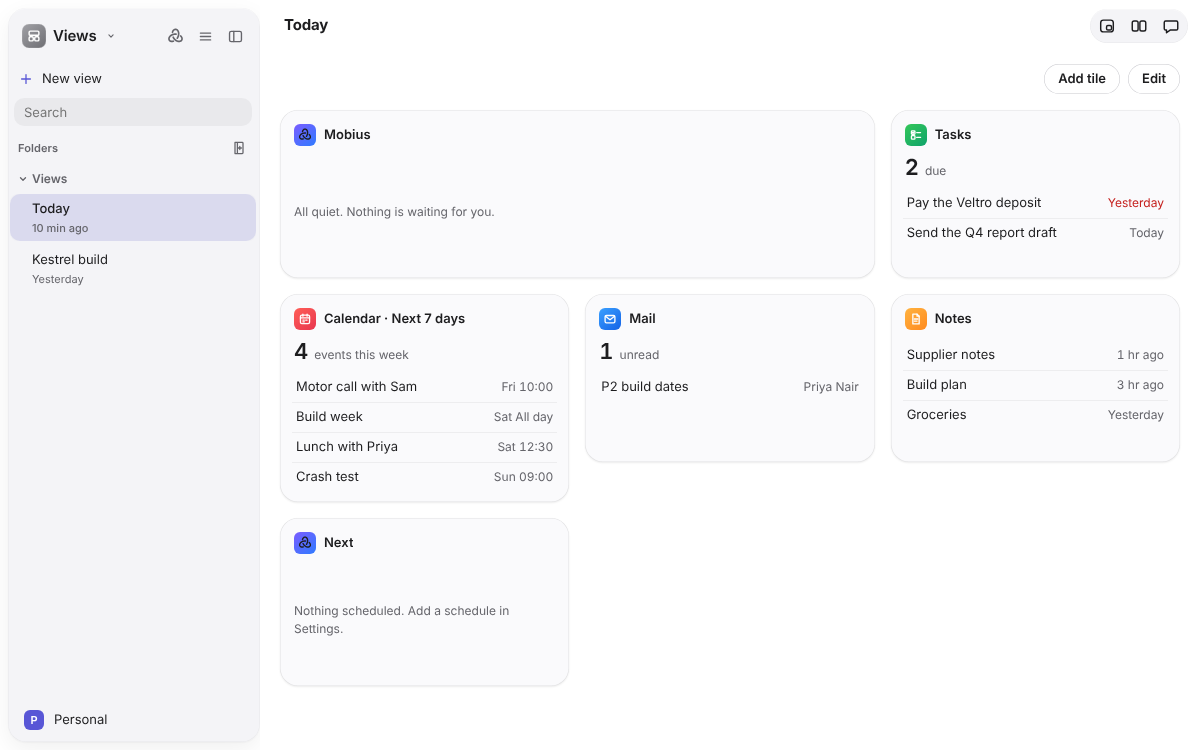
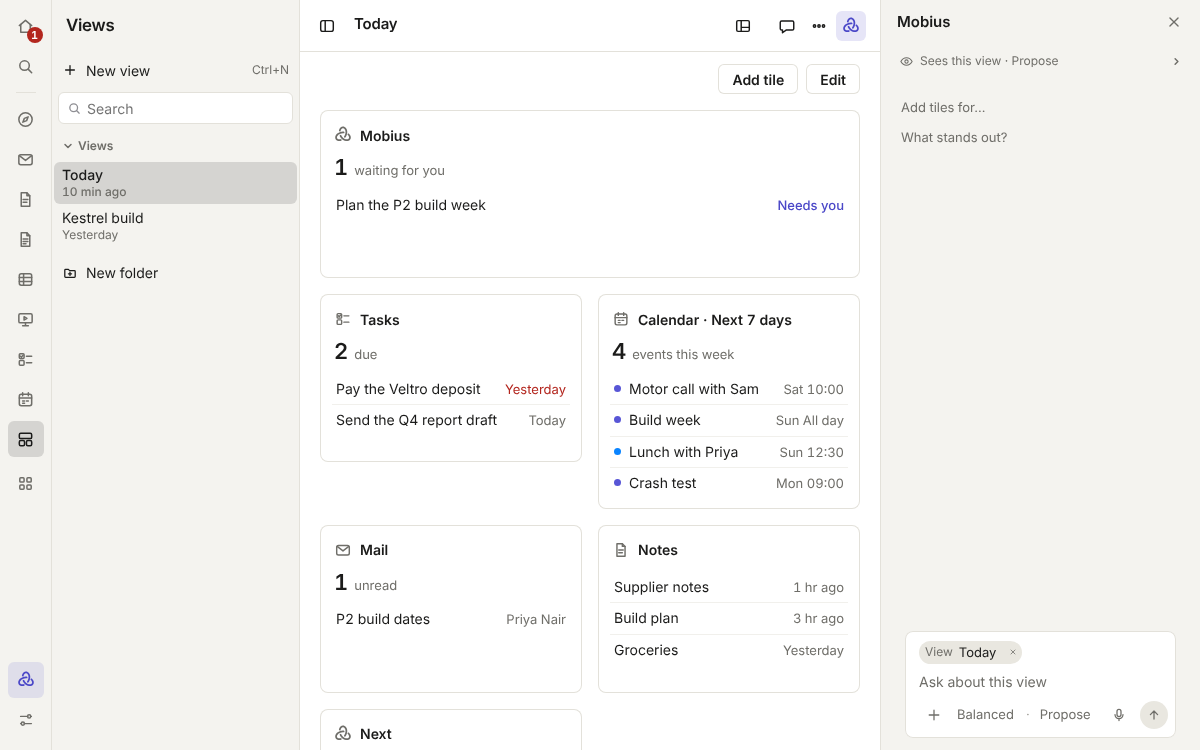
Views: Instrument round
- Flat tiles with a hairline edge and 8px corners; line icons, no hand-set colours.
- Indigo only for Mobius ("Needs you"); red only for overdue tasks and removing.
- An event's row carries a dot in its calendar's colour, as Calendar draws it.
- Tabular figures for counts, times and "N more".
- Empty states are one line and the New action; while the views are read,
  grey placeholder bars stand in for the tiles (useNotes gains `loaded`).
- Tiles take focus: Enter opens, Delete removes, Shift+F10 opens the menu,
  Alt+←/→ moves. Menu items show their keys and have no icons (none have);
  icon buttons have tooltips with their keys.
- The shared UndoToast replaces Views' own undo pill.

Claude-Session: https://claude.ai/code/session_01VRGwoAJhimgpqSaqF9KiYG

diff --git a/apps/desktop/src/Views.tsx b/apps/desktop/src/Views.tsx
@@ -1,5 +1,6 @@
 import { useEffect, useMemo, useRef, useState, type ReactNode } from 'react';
 import { ContextMenu, type ContextMenuItem } from './ContextMenu';
+import { UndoToast } from './ui';
 import { EmptyState } from './EmptyState';
 import { NotesSidebar, newItemIn, type SidebarWords } from './NotesSidebar';
 import { ReviewActions, WhyThis } from './ReviewBar';
@@ -32,8 +33,24 @@ export function viewReviewText(changed: number, removed: number): string {
 }
 
 const AppIcon = ({ app }: { app: string }) => (
-  <svg viewBox="0 0 20 20" aria-hidden="true" className="view-tile-icon" style={{ background: `var(--app-${app})` }}>{APP_ICONS[app]}</svg>
+  <svg viewBox="0 0 20 20" aria-hidden="true" className="view-tile-icon">{APP_ICONS[app]}</svg>
 );
+
+/** Grey bars the shape of the tiles that are coming, while the views are read (Instrument: no spinners in content). */
+function Placeholder() {
+  return (
+    <ul className="views-grid" role="list" aria-label="Loading" aria-busy="true">
+      {['wide', 'small', 'small', 'small'].map((size, i) => (
+        <li key={i} className="view-tile" data-size={size} data-placeholder>
+          <span className="view-bar" data-w="40" />
+          <span className="view-bar" data-w="20" data-tall />
+          <span className="view-bar" data-w="90" />
+          <span className="view-bar" data-w="70" />
+        </li>
+      ))}
+    </ul>
+  );
+}
 
 /** Mobius's schedules, for the Next tile, kept current. */
 function useSchedules(): ViewSources['schedules'] {
@@ -89,10 +106,11 @@ export function ViewPage({ views, apps, review, onOpen, now: fixedNow }: Props) 
   const gone = useMemo(() => (view && beforeView !== undefined ? removedTiles(beforeView, view) : []), [view, beforeView]);
 
   if (!views.page) {
+    if (!views.loaded) return <section className="views-page" aria-label="Views"><div className="views-scroll"><Placeholder /></div></section>;
     const none = views.notebooks.every((nb) => nb.pages.length === 0);
     return (
       <section className="views-page" aria-label="Views">
-        <EmptyState app="views" title={none ? 'No views yet' : 'No view open'} line={none ? 'A view is a dashboard of live tiles from your apps: tasks, calendar, mail, notes and what Mobius is doing.' : 'Choose a view on the left, or make a new one.'} action={{ label: 'New view', run: () => newView(views) }} />
+        <EmptyState app="views" title={none ? 'No views yet' : 'Choose a view on the left'} action={{ label: 'New view', run: () => newView(views) }} />
       </section>
     );
   }
@@ -119,7 +137,7 @@ export function ViewPage({ views, apps, review, onOpen, now: fixedNow }: Props) 
   const menuItems = (tile: Tile): ContextMenuItem[] => {
     const at = view.tiles.findIndex((t) => t.id === tile.id);
     const items: ContextMenuItem[] = [
-      { action: 'open', label: `Open in ${tileKind(tile.kind).name === 'Next' ? 'Settings' : tileKind(tile.kind).name}`, run: () => onOpen(tileContent(tile, sources, now).target) },
+      { label: `Open in ${tileKind(tile.kind).name === 'Next' ? 'Settings' : tileKind(tile.kind).name}`, keys: 'Enter', run: () => onOpen(tileContent(tile, sources, now).target) },
       { label: tile.size === 'wide' ? 'Make small' : 'Make wide', run: () => save(changeTile(view, tile.id, { size: tile.size === 'wide' ? 'small' : 'wide' })), separated: true },
     ];
     if (tile.kind === 'tasks') for (const s of TASKS_SHOW) items.push({ label: `Show ${s.name}`, disabled: (tile.show ?? 'today') === s.id, run: () => save(changeTile(view, tile.id, { show: s.id })) });
@@ -127,7 +145,7 @@ export function ViewPage({ views, apps, review, onOpen, now: fixedNow }: Props) 
     items.push(
       { label: 'Move earlier', keys: 'Alt+←', disabled: at <= 0, run: () => move(tile, -1), separated: true },
       { label: 'Move later', keys: 'Alt+→', disabled: at >= view.tiles.length - 1, run: () => move(tile, 1) },
-      { action: 'delete', label: 'Remove tile', danger: true, run: () => remove(tile) },
+      { label: 'Remove tile', keys: 'Delete', danger: true, run: () => remove(tile) },
     );
     return items;
   };
@@ -155,7 +173,7 @@ export function ViewPage({ views, apps, review, onOpen, now: fixedNow }: Props) 
       <div className="views-scroll">
       {view.tiles.length === 0 ? (
         <div className="views-empty">
-          <EmptyState app="views" title="This view is empty" line="Add tiles from your apps, or start with the usual ones." action={{ label: 'Add the usual tiles', run: () => save(starterView()) }} />
+          <EmptyState app="views" title="This view is empty" action={{ label: 'Add the usual tiles', run: () => save(starterView()) }} />
         </div>
       ) : (
         <ul className="views-grid" role="list" aria-label="Tiles">
@@ -177,23 +195,27 @@ export function ViewPage({ views, apps, review, onOpen, now: fixedNow }: Props) 
                 onDragOver={(e) => { if (dragging && dragging !== tile.id) { e.preventDefault(); e.dataTransfer.dropEffect = 'move'; } }}
                 onDrop={(e) => { e.preventDefault(); if (dragging && dragging !== tile.id) save(moveTile(view, dragging, index)); setDragging(null); }}
                 onContextMenu={(e) => { e.preventDefault(); setMenu({ x: e.clientX, y: e.clientY, tile }); }}
+                tabIndex={0}
                 onKeyDown={(e) => {
-                  if (!e.altKey || (e.key !== 'ArrowLeft' && e.key !== 'ArrowRight')) return;
-                  e.preventDefault();
-                  move(tile, e.key === 'ArrowLeft' ? -1 : 1);
+                  if (e.altKey && (e.key === 'ArrowLeft' || e.key === 'ArrowRight')) { e.preventDefault(); move(tile, e.key === 'ArrowLeft' ? -1 : 1); return; }
+                  // The rest are the tile's own keys: only when the tile itself has focus, not a row inside it.
+                  if (e.target !== e.currentTarget) return;
+                  if (e.key === 'Enter') { e.preventDefault(); onOpen(content.target); }
+                  else if (e.key === 'Delete' || e.key === 'Backspace') { e.preventDefault(); remove(tile); }
+                  else if (e.key === 'ContextMenu' || (e.shiftKey && e.key === 'F10')) { e.preventDefault(); const r = e.currentTarget.getBoundingClientRect(); setMenu({ x: r.left + 12, y: r.top + 40, tile }); }
                 }}
               >
                 <header className="view-tile-head">
-                  <button type="button" className="view-tile-name" onClick={() => onOpen(content.target)} title={`Open ${tileKind(tile.kind).name === 'Next' ? 'Settings › Schedules' : tileKind(tile.kind).name}`}>
+                  <button type="button" className="view-tile-name" onClick={() => onOpen(content.target)} title={`Open ${tileKind(tile.kind).name === 'Next' ? 'Settings › Schedules' : tileKind(tile.kind).name} (Enter)`}>
                     <AppIcon app={content.app} />
                     <span>{title}</span>
                   </button>
                   {editing ? (
-                    <button type="button" className="view-tile-remove" aria-label={`Remove ${title}`} onClick={() => remove(tile)}>
+                    <button type="button" className="view-tile-remove" aria-label={`Remove ${title}`} title={`Remove ${title} (Delete)`} onClick={() => remove(tile)}>
                       <svg viewBox="0 0 20 20" aria-hidden="true"><path d="M6 10h8" /></svg>
                     </button>
                   ) : (
-                    <button type="button" className="view-tile-more" aria-label={`More for ${title}`} onClick={(e) => { const r = e.currentTarget.getBoundingClientRect(); setMenu({ x: r.left, y: r.bottom + 4, tile }); }}>
+                    <button type="button" className="view-tile-more" aria-label={`More for ${title}`} title={`More for ${title} (Shift+F10)`} aria-haspopup="menu" aria-expanded={menu?.tile.id === tile.id} onClick={(e) => { const r = e.currentTarget.getBoundingClientRect(); setMenu({ x: r.left, y: r.bottom + 4, tile }); }}>
                       <svg viewBox="0 0 20 20" aria-hidden="true"><circle cx="5" cy="10" r="1.3" /><circle cx="10" cy="10" r="1.3" /><circle cx="15" cy="10" r="1.3" /></svg>
                     </button>
                   )}
@@ -206,6 +228,7 @@ export function ViewPage({ views, apps, review, onOpen, now: fixedNow }: Props) 
                     {content.rows.map((row) => (
                       <li key={row.key}>
                         <button type="button" className="view-tile-row" data-tone={row.tone} disabled={editing} onClick={() => onOpen(row.target)}>
+                          {row.color && <span className="view-tile-dot" aria-hidden="true" style={{ background: row.color }} />}
                           <span className="view-tile-text">{row.text}</span>
                           {row.detail && <span className="view-tile-detail">{row.detail}</span>}
                         </button>
@@ -224,11 +247,7 @@ export function ViewPage({ views, apps, review, onOpen, now: fixedNow }: Props) 
       </div>
       {menu && <ContextMenu x={menu.x} y={menu.y} label={tileTitle(menu.tile)} items={menuItems(menu.tile)} onClose={() => setMenu(null)} />}
       {removed && removed.path === views.page.path && (
-        <div className="views-undo" role="status">
-          <span>Removed {tileTitle(removed.tile)}</span>
-          <button type="button" className="btn" onClick={undoRemove}>Undo</button>
-          <button type="button" className="views-undo-x" aria-label="Dismiss" onClick={() => setRemoved(null)}>×</button>
-        </div>
+        <UndoToast text={`Removed ${tileTitle(removed.tile)}`} onUndo={undoRemove} onDismiss={() => setRemoved(null)} />
       )}
       {anyChange && (
         <div className="design-review views-review" role="group" aria-label="Mobius's change">

diff --git a/apps/desktop/src/views.css b/apps/desktop/src/views.css
@@ -1,13 +1,9 @@
 /*
- * Views, the Apple way (HIG; widgets on the Mac as the bar): a dashboard of tiles on the window's background, each a
- * solid rounded card with its app's icon and name, a big number where there is one, and a few rows. Edit shows a
- * remove button on each tile and lets them be dragged into a new order. Mobius's changes come dashed, as everywhere.
+ * Views, in the Instrument style: a dashboard of tiles, each a flat card (a dashboard tile is an object in its own right)
+ * with its app's line icon and name, a big tabular number where there is one, and a few rows. Colour only comes from
+ * the content (an event's calendar, as a dot), indigo only from Mobius, red only for overdue and for removing. Edit
+ * shows a remove button on each tile and lets them be dragged into a new order. Mobius's changes come dashed.
  */
-
-/* Views is one of Mobius's own apps: grey, like Abilities and Settings. */
-:root { --app-views: linear-gradient(140deg, #a1a1a6, #6e6e73); }
-.launcher-icon svg[data-app="views"], .hub-icon[data-app="views"], .access-app svg[data-app="views"],
-.search-icon[data-app="views"], .search-scope-icon[data-app="views"], .review-filter svg[data-app="views"], .review-file > svg[data-app="views"] { background: var(--app-views); }
 
 .views-page { position: relative; display: flex; flex-direction: column; height: 100%; min-height: 0; overflow: hidden; container-type: inline-size; }
 .views-scroll { flex: 1; min-height: 0; overflow: auto; display: flex; flex-direction: column; }
@@ -19,24 +15,23 @@
 .views-grid { list-style: none; margin: 0; padding: var(--sp-2) var(--sp-5) var(--sp-8); display: grid; grid-template-columns: repeat(auto-fill, minmax(240px, 1fr)); grid-auto-flow: row dense; gap: var(--sp-4); align-items: start; }
 @container (max-width: 560px) { .views-grid { grid-template-columns: 1fr; } .view-tile[data-size="wide"] { grid-column: auto; } }
 
-.view-tile { position: relative; display: flex; flex-direction: column; gap: var(--sp-2); min-width: 0; min-height: 168px; padding: 12px 12px 10px; border-radius: var(--radius-sheet); background: var(--panel); box-shadow: inset 0 0 0 0.5px var(--hairline), var(--shadow-1); transition: transform var(--dur-fast) var(--ease), box-shadow var(--dur-fast) var(--ease), opacity var(--dur-fade) var(--ease); }
+.view-tile { position: relative; display: flex; flex-direction: column; gap: var(--sp-2); min-width: 0; min-height: 168px; padding: 12px 12px 10px; border-radius: var(--radius-panel); background: var(--panel); box-shadow: inset 0 0 0 var(--hairline-w, 1px) var(--line); transition: opacity var(--dur-fade) var(--ease); }
 .view-tile[data-size="wide"] { grid-column: span 2; }
 .view-tile[data-proposed] { box-shadow: none; outline: 1.5px dashed var(--mobius); outline-offset: -1.5px; }
 .view-tile[data-dragging] { opacity: 0.4; }
 .views-page[data-editing] .view-tile { cursor: grab; }
-.views-page[data-editing] .view-tile:hover { transform: translateY(-1px); box-shadow: inset 0 0 0 0.5px var(--hairline), var(--shadow-2); }
 
 .view-tile-head { display: flex; align-items: center; gap: var(--sp-1); min-width: 0; }
 .view-tile-name { flex: 1; min-width: 0; display: flex; align-items: center; gap: 8px; height: 26px; padding: 0 6px 0 2px; border-radius: var(--radius-control); color: var(--ink); text-align: left; font-size: var(--fs-md); font-weight: var(--fw-semibold); }
 .view-tile-name > span { overflow: hidden; text-overflow: ellipsis; white-space: nowrap; }
-.view-tile-name:hover { background: color-mix(in srgb, var(--ink) 6%, transparent); }
-.view-tile-icon { flex: none; width: 22px; height: 22px; padding: 4px; border-radius: 6px; fill: none; stroke: #fff; stroke-width: 1.9; stroke-linecap: round; stroke-linejoin: round; }
+.view-tile-name:hover { background: var(--sel); }
+.view-tile-icon { flex: none; width: 18px; height: 18px; fill: none; stroke: currentColor; stroke-width: 1.6; stroke-linecap: round; stroke-linejoin: round; }
 .view-tile-more, .view-tile-remove { flex: none; display: grid; place-items: center; width: 26px; height: 26px; padding: 0; border-radius: 50%; color: var(--muted); }
 .view-tile-more svg { width: 18px; height: 18px; fill: currentColor; }
 .view-tile-more { opacity: 0; transition: opacity var(--dur-fade) var(--ease); }
 .view-tile:hover .view-tile-more, .view-tile-more:focus-visible, .view-tile-more[aria-expanded="true"] { opacity: 1; }
-.view-tile-more:hover { background: color-mix(in srgb, var(--ink) 6%, transparent); color: var(--ink); }
-.view-tile-remove { width: 22px; height: 22px; background: var(--danger); color: #fff; }
+.view-tile-more:hover { background: var(--sel); color: var(--ink); }
+.view-tile-remove { width: 22px; height: 22px; background: var(--danger); color: var(--bg); }
 .view-tile-remove svg { width: 14px; height: 14px; fill: none; stroke: currentColor; stroke-width: 2.4; stroke-linecap: round; }
 
 .view-tile-count { margin: 0 2px; display: flex; align-items: baseline; gap: 6px; color: var(--muted); font-size: var(--fs-sm); }
@@ -45,17 +40,23 @@
 .view-tile-rows { list-style: none; margin: 0; padding: 0; display: flex; flex-direction: column; }
 .view-tile-rows > li + li { box-shadow: inset 0 0.5px 0 var(--hairline); }
 .view-tile-row { display: flex; align-items: baseline; gap: var(--sp-2); width: 100%; min-height: 30px; padding: 5px 4px; border-radius: var(--radius-small); color: var(--ink); text-align: left; font-size: var(--fs-md); }
-.view-tile-row:hover:not(:disabled) { background: color-mix(in srgb, var(--ink) 5%, transparent); }
+.view-tile-row:hover:not(:disabled) { background: var(--sel); }
 .view-tile-row:disabled { opacity: 1; cursor: inherit; }
 .view-tile-text { flex: 1; min-width: 0; overflow: hidden; text-overflow: ellipsis; white-space: nowrap; }
 .view-tile-detail { flex: none; max-width: 45%; overflow: hidden; text-overflow: ellipsis; white-space: nowrap; color: var(--muted); font-size: var(--fs-sm); font-variant-numeric: tabular-nums; }
-.view-tile-row[data-tone="accent"] .view-tile-detail { color: var(--accent); font-weight: var(--fw-medium); }
+.view-tile-row[data-tone="mobius"] .view-tile-detail { color: var(--mobius); font-weight: var(--fw-medium); }
 .view-tile-row[data-tone="late"] .view-tile-detail { color: var(--danger); }
 .view-tile-empty { margin: auto 2px; padding: var(--sp-2) 0; color: var(--muted); font-size: var(--fs-sm); }
-.view-tile-all { align-self: flex-start; height: 24px; margin-top: auto; padding: 0 4px; border-radius: var(--radius-small); color: var(--accent); font-size: var(--fs-sm); font-weight: var(--fw-medium); }
-.view-tile-all:hover:not(:disabled) { background: color-mix(in srgb, var(--accent) 10%, transparent); }
+.view-tile-all { align-self: flex-start; height: 24px; margin-top: auto; padding: 0 4px; border-radius: var(--radius-small); color: var(--muted); font-size: var(--fs-sm); font-weight: var(--fw-medium); font-variant-numeric: tabular-nums; }
+.view-tile-all:hover:not(:disabled) { background: var(--sel); color: var(--ink); }
 
-.views-undo { position: absolute; z-index: 30; left: 50%; bottom: var(--sp-6); transform: translateX(-50%); display: flex; align-items: center; gap: 10px; padding: 6px 6px 6px 14px; border: 0.5px solid var(--line); border-radius: var(--radius-pill); background: var(--bg); box-shadow: var(--shadow-2); font-size: var(--fs-md); white-space: nowrap; }
-.views-undo .btn { height: 26px; border-radius: var(--radius-pill); color: var(--accent); font-weight: var(--fw-semibold); }
-.views-undo-x { width: 24px; height: 24px; padding: 0; border-radius: 50%; color: var(--muted); }
 .views-review { z-index: 30; }
+.view-tile-count, .view-tile-detail, .view-tile-number { font-variant-numeric: tabular-nums; }
+/* An event's calendar, as a small dot of its content colour. */
+.view-tile-dot { flex: none; align-self: center; width: 7px; height: 7px; border-radius: 50%; }
+
+/* While the views are read: grey bars the shape of the tiles, still (motion is only for live state). */
+.view-tile[data-placeholder] { gap: var(--sp-3); }
+.view-bar { display: block; height: 10px; border-radius: var(--radius-small); background: var(--sel); }
+.view-bar[data-tall] { height: 24px; }
+.view-bar[data-w="20"] { width: 20%; } .view-bar[data-w="40"] { width: 40%; } .view-bar[data-w="70"] { width: 70%; } .view-bar[data-w="90"] { width: 90%; }

diff --git a/apps/desktop/src/views-data.ts b/apps/desktop/src/views-data.ts
@@ -1,6 +1,6 @@
 import type { CalendarEvent, ConversationInfo, MailMessage, Notebook, ScheduleInfo, TaskItem } from '@mobius/shared';
 import type { AppId } from './apps';
-import { eventsOn, localDate } from './calendar-view';
+import { calendarColor, eventsOn, localDate } from './calendar-view';
 import { upcoming, whenLabel } from './desk-view';
 import { relativeTime } from './relative-time';
 import { dueLabel, smartView } from './tasks-view';
@@ -10,6 +10,8 @@ import { tileKind, type Tile } from './views-format';
 export interface ViewSources {
   tasks: Record<string, TaskItem[]>;
   events: readonly CalendarEvent[];
+  /** The calendars' names, in the Calendar app's order: an event's dot takes its calendar's colour from it. */
+  calendars: readonly string[];
   mail: { messages: readonly MailMessage[]; unread: number; accounts: number };
   notes: readonly Notebook[];
   conversations: readonly ConversationInfo[];
@@ -23,7 +25,7 @@ export type TileTarget =
   | { kind: 'conversation'; id: string }
   | { kind: 'schedules' };
 
-export interface TileRow { key: string; text: string; detail?: string; tone?: 'accent' | 'late'; target: TileTarget }
+export interface TileRow { key: string; text: string; detail?: string; tone?: 'mobius' | 'late'; /** Content colour, as a dot: an event's calendar. */ color?: string; target: TileTarget }
 export interface TileContent {
   app: AppId;
   /** The big number, with what it counts ("3 due"), or nothing for a tile that is a list only. */
@@ -87,7 +89,7 @@ export function tileContent(tile: Tile, src: ViewSources, now: Date): TileConten
         rows: shown.map(({ e, day }) => {
           const time = e.allDay ? 'All day' : hhmm(localDate(e.start));
           const when = week && day.getDate() !== now.getDate() ? `${day.toLocaleDateString('en-GB', { weekday: 'short' })} ${time}` : time;
-          return { key: `${e.id}@${e.start}`, text: e.title || 'Untitled event', detail: when, target: { kind: 'app' as const, app: 'calendar' as const } };
+          return { key: `${e.id}@${e.start}`, text: e.title || 'Untitled event', detail: when, color: calendarColor(src.calendars, e.calendar), target: { kind: 'app' as const, app: 'calendar' as const } };
         }),
         empty: week ? 'Nothing in the next seven days.' : 'Nothing else today.',
       };
@@ -122,7 +124,7 @@ export function tileContent(tile: Tile, src: ViewSources, now: Date): TileConten
       return {
         app, more, target: { kind: 'app', app: 'agent' },
         count: waiting.length > 0 ? { value: waiting.length, label: 'waiting for you' } : null,
-        rows: shown.map(({ c, needs }) => ({ key: c.id, text: c.title.trim() || 'New conversation', detail: needs ? 'Needs you' : 'Working', ...(needs ? { tone: 'accent' as const } : {}), target: { kind: 'conversation' as const, id: c.id } })),
+        rows: shown.map(({ c, needs }) => ({ key: c.id, text: c.title.trim() || 'New conversation', detail: needs ? 'Needs you' : 'Working', ...(needs ? { tone: 'mobius' as const } : {}), target: { kind: 'conversation' as const, id: c.id } })),
         empty: working.length === 0 && waiting.length === 0 ? 'All quiet. Nothing is waiting for you.' : '',
       };
     }

diff --git a/apps/desktop/src/views-data.test.ts b/apps/desktop/src/views-data.test.ts
@@ -1,6 +1,7 @@
 import { describe, expect, it } from 'vitest';
 import type { ConversationInfo, MailMessage } from '@mobius/shared';
 import { setLocaleForTests } from './dates';
+import { calendarColor } from './calendar-view';
 import { tileContent, tileSummary, type ViewSources } from './views-data';
 
 const now = new Date(2026, 10, 12, 10, 30);
@@ -22,6 +23,7 @@ const src: ViewSources = {
     { id: 'e2', calendar: 'Home', title: 'Lunch with Ana', start: '2026-11-12T12:30', end: '2026-11-12T13:30', allDay: false, location: '', notes: '', repeats: false },
     { id: 'e3', calendar: 'Home', title: 'Offsite', start: '2026-11-14', end: '2026-11-15', allDay: true, location: '', notes: '', repeats: false },
   ],
+  calendars: ['Work', 'Home'],
   mail: { messages: [message('m1', 'Old', false, 1), message('m2', 'New', false, 5), message('m3', 'Read', true, 9)], unread: 9, accounts: 1 },
   notes: [{ name: 'Home', pages: [{ path: 'Home/Garden.md', title: 'Garden', modified: now.getTime() - 120_000 }] }, { name: 'Work', pages: [{ path: 'Work/Plan.md', title: 'Plan', modified: now.getTime() - 60_000 }] }],
   conversations: [convo('c1', 'Trip', 'working'), convo('c2', 'Invoice', 'idle', 1), convo('c3', 'Old', 'idle')],
@@ -42,6 +44,8 @@ describe('tiles', () => {
     const today = tileContent({ id: 'c', kind: 'calendar', size: 'small', show: 'today' }, src, now);
     expect(today.rows.map((r) => `${r.text} ${r.detail}`)).toEqual(['Lunch with Ana 12:30']);
     expect(today.count?.label).toBe('event left today');
+    // Each event shows its calendar's colour, as the Calendar app draws it.
+    expect(today.rows[0]!.color).toBe(calendarColor(['Work', 'Home'], 'Home'));
     const week = tileContent({ id: 'c', kind: 'calendar', size: 'wide', show: 'week' }, src, now);
     expect(week.rows.map((r) => `${r.text} ${r.detail}`)).toEqual(['Lunch with Ana 12:30', 'Offsite Sat All day']);
   });

diff --git a/apps/desktop/src/useNotes.ts b/apps/desktop/src/useNotes.ts
@@ -29,6 +29,8 @@ export function useNotes(kind: NotesKind = 'notes', active = true) {
     try { if (path) window.localStorage.setItem(lastKey(kind), path); else window.localStorage.removeItem(lastKey(kind)); } catch { /* Not kept. */ }
   }, [kind]);
   const [notebooks, setNotebooks] = useState<Notebook[]>([]);
+  /** The list has been read once: until then an empty list means "not known yet", not "nothing here". */
+  const [loaded, setLoaded] = useState(false);
   const [page, setPage] = useState<OpenPage | null>(null);
   const [text, setText] = useState('');
   const [status, setStatus] = useState<SaveStatus>('saved');
@@ -45,6 +47,7 @@ export function useNotes(kind: NotesKind = 'notes', active = true) {
     const read = ++listed.current;
     const list = await api?.list();
     if (read === listed.current && list && !isNotesFailure(list)) setNotebooks(list);
+    if (read === listed.current) setLoaded(true);
     return list && !isNotesFailure(list) ? list : null;
   }, [api]);
 
@@ -186,7 +189,7 @@ export function useNotes(kind: NotesKind = 'notes', active = true) {
     void load(path, title);
   }, [load]);
 
-  return { kind, openIfIdle, available: api !== undefined, notebooks, page, text, status, message, open, edit, resolve, createNotebook, createPage, remove, search };
+  return { kind, openIfIdle, available: api !== undefined, loaded, notebooks, page, text, status, message, open, edit, resolve, createNotebook, createPage, remove, search };
 }
 
 export type NotesState = ReturnType<typeof useNotes>;

diff --git a/apps/desktop/e2e/views.spec.ts b/apps/desktop/e2e/views.spec.ts
@@ -87,6 +87,12 @@ test('a view shows live tiles from the apps, and tiles are added, resized, moved
   await page().getByRole('status').getByRole('button', { name: 'Undo' }).click();
   await expect.poll(() => saved().tiles.map((t) => t.id)).toEqual(['t2', 't1', 't3']);
   await page().getByRole('button', { name: 'Done' }).click();
+  // The keyboard: Delete on a focused tile removes it, and Undo puts it back.
+  await tile(/^Mail/).focus();
+  await shell().keyboard.press('Delete');
+  await expect.poll(() => saved().tiles.map((t) => t.id)).toEqual(['t2', 't1']);
+  await page().getByRole('status').getByRole('button', { name: 'Undo' }).click();
+  await expect.poll(() => saved().tiles.map((t) => t.id)).toEqual(['t2', 't1', 't3']);
   await expect(page().getByRole('button', { name: 'Remove Notes' })).toBeHidden();
 });
 

diff --git a/apps/desktop/src/App.tsx b/apps/desktop/src/App.tsx
@@ -1362,7 +1362,7 @@ export function App() {
         return (
           <ViewPage
             views={views}
-            apps={{ tasks: tasks.all, events: calendar.events, mail: { messages: mail.messages, unread: mail.counts.all, accounts: mail.accounts.length }, notes: notes.notebooks, conversations: conversation.list }}
+            apps={{ tasks: tasks.all, events: calendar.events, calendars: calendar.calendars, mail: { messages: mail.messages, unread: mail.counts.all, accounts: mail.accounts.length }, notes: notes.notebooks, conversations: conversation.list }}
             review={views.page && viewMarks.has(views.page.path) ? { conversation: conversation.state.conversation } : null}
             onOpen={(t) => {
               if (t.kind === 'app') openApp(t.app);

diff --git a/docs/apps/review.md b/docs/apps/review.md
@@ -26,6 +26,7 @@ Dashboards of live tiles from your other apps.
 - **Add tile** adds one at the end. A tile's **…** menu (or a right-click) makes it wide or small, changes what it
   shows, moves it, or removes it. **Edit** shows a remove button on every tile and lets you drag tiles into a new order;
   **Alt+←/→** moves the focused tile. Removing a tile can be undone.
+- **Keys on a tile:** Enter opens its app, Delete removes it, and Shift+F10 opens its menu.
 - **A new view** starts with the usual tiles. Views are kept in folders in the sidebar, like notes.
 
 Views only point at things: the tasks, events, mail and notes stay in their own apps, and a view never changes them.
